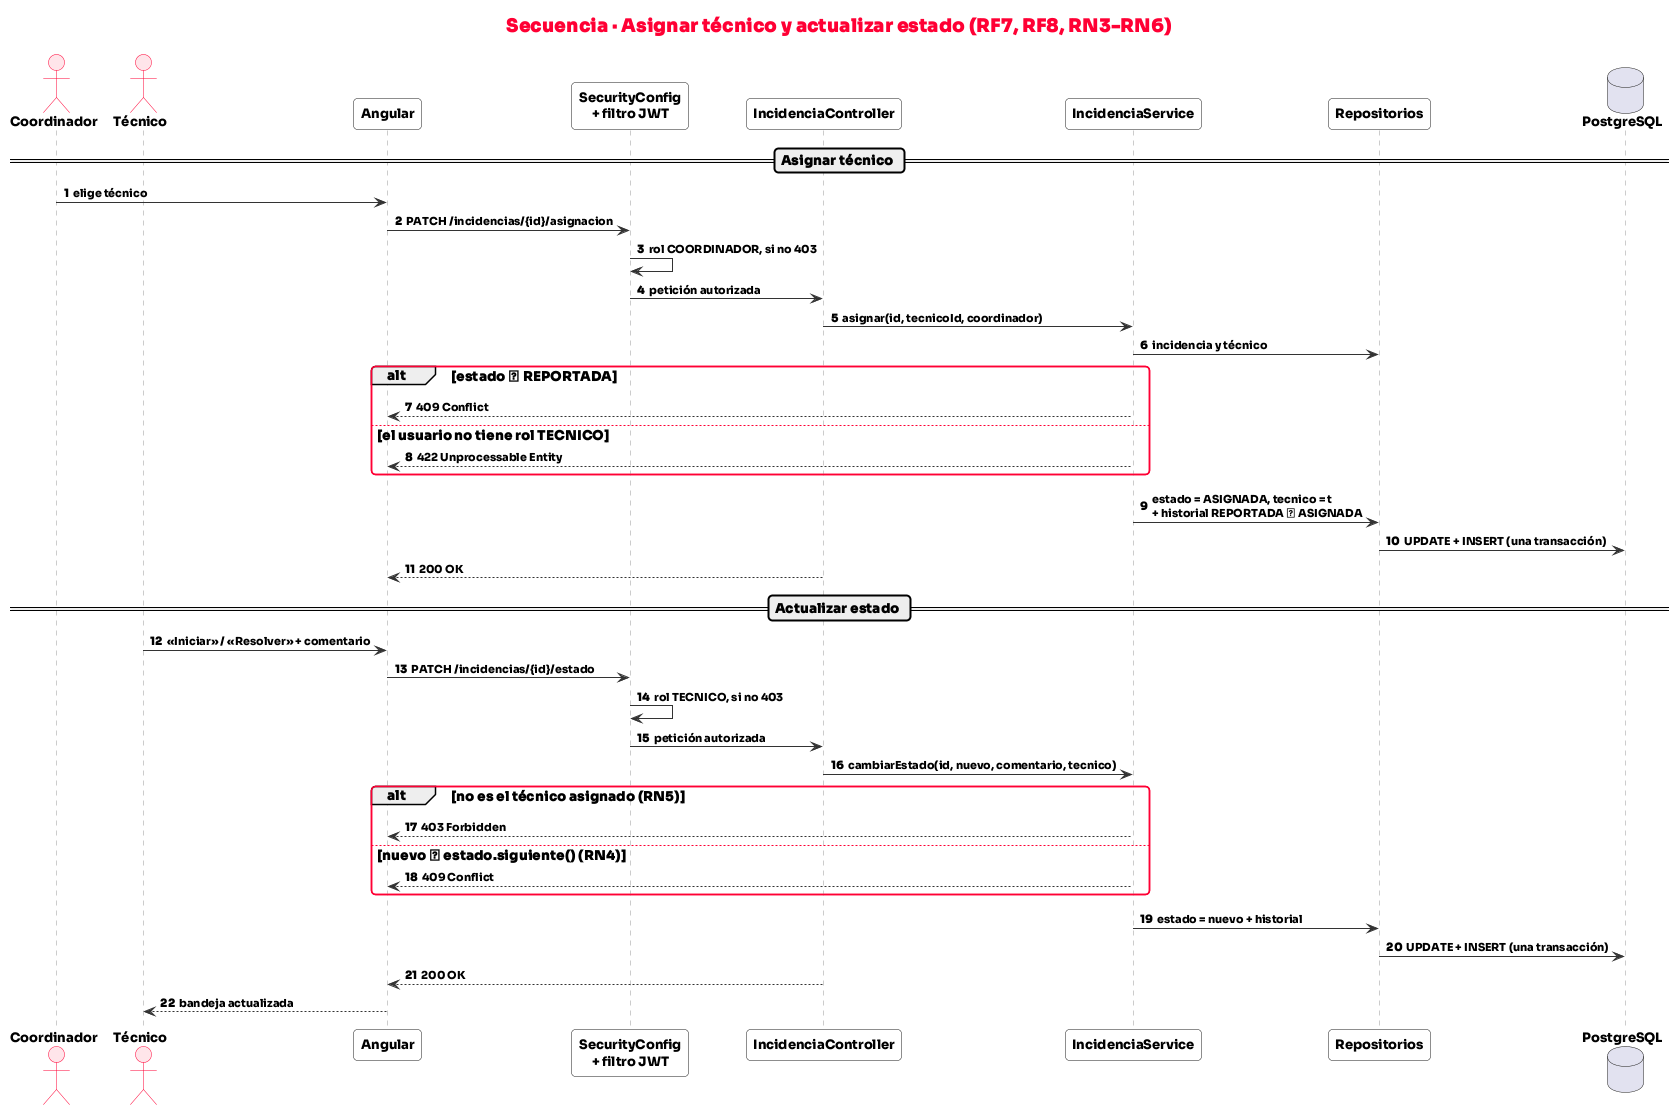
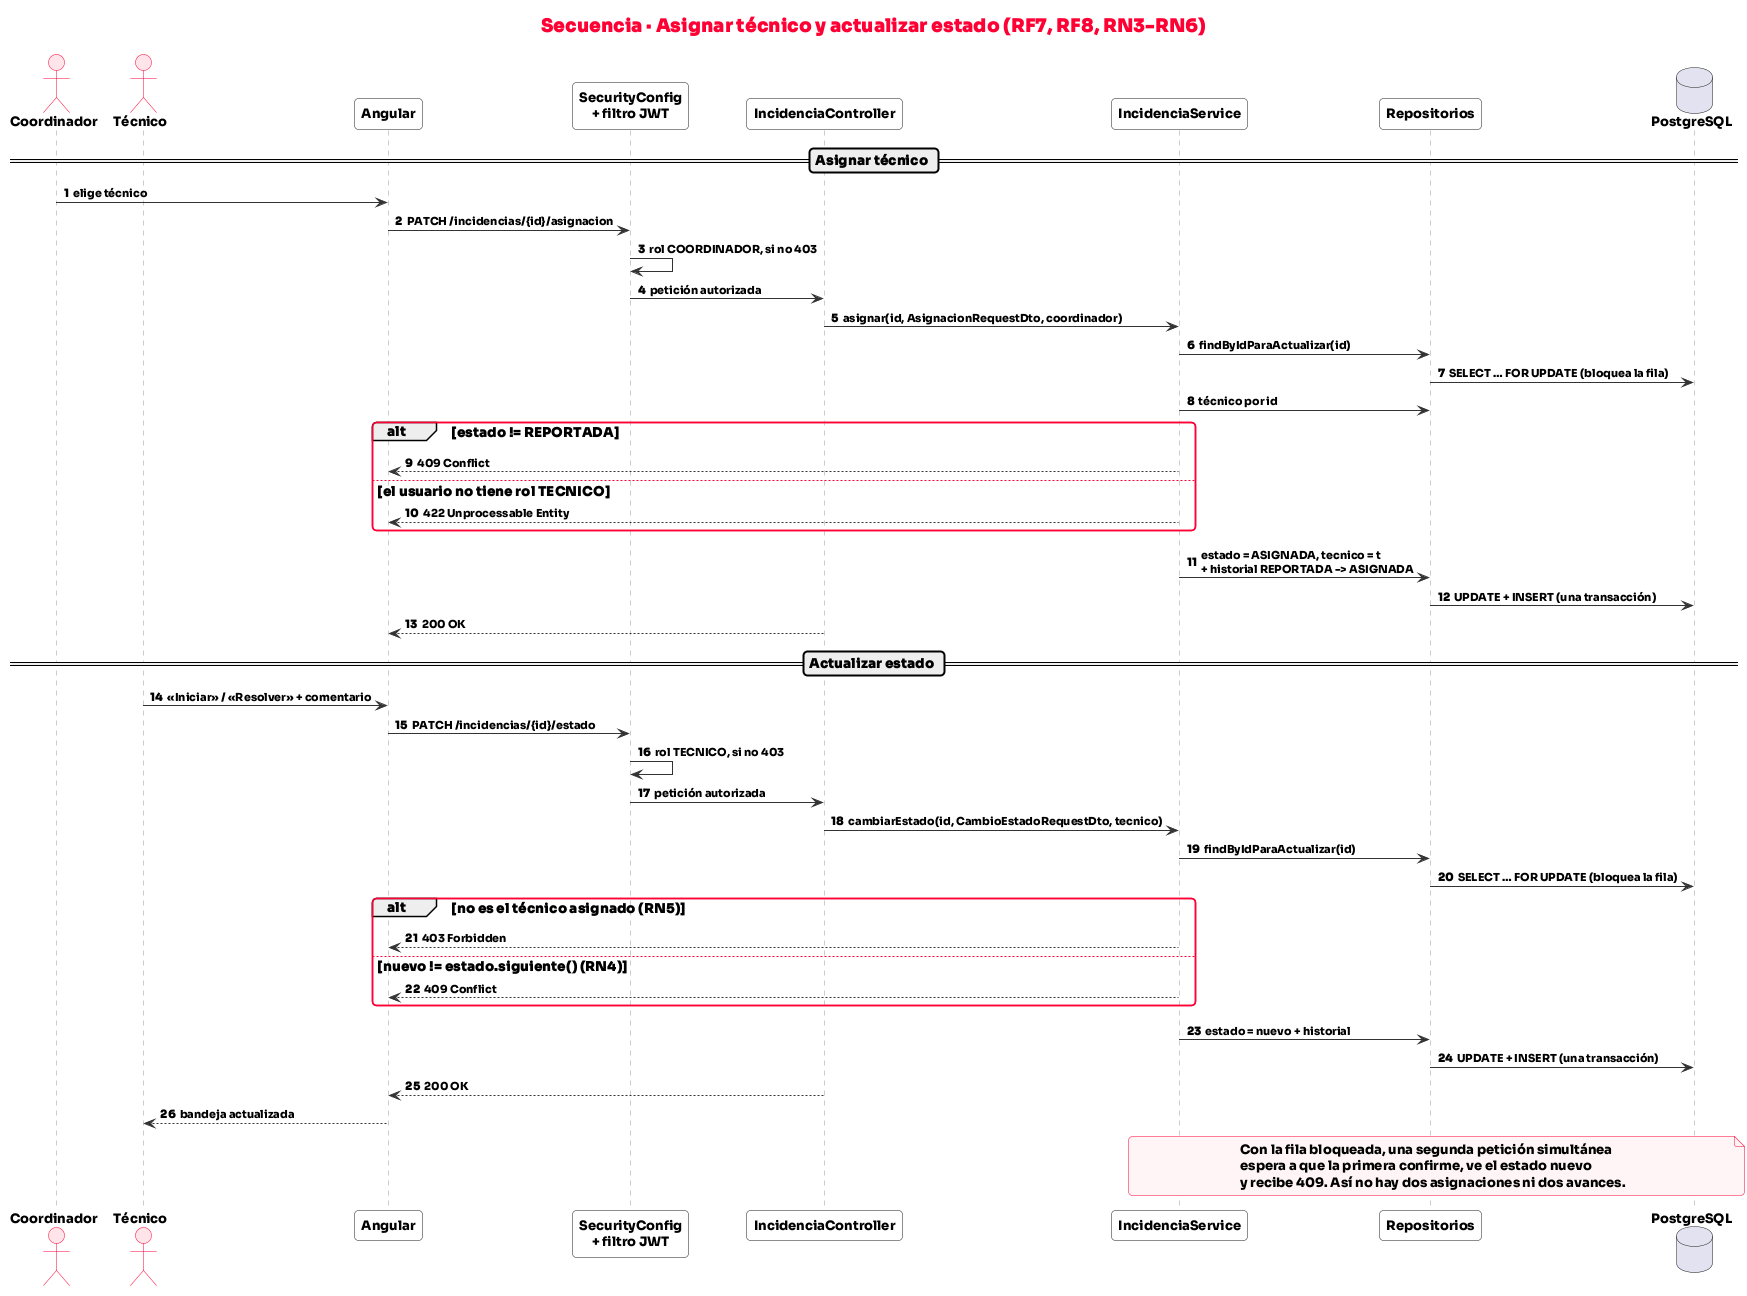
docs: secuencia de estado con bloqueo de fila y DTO; cambios 10 a 13 de la revisión; capturas localizan por id

diff --git a/docs/03-cambios.md b/docs/03-cambios.md
@@ -1,6 +1,6 @@
 # Ejercicio 3 · Diferencias entre el modelo y la implementación
 
-Al construir el prototipo aparecieron diferencias con los diagramas del Ejercicio 1. Algunas se resolvieron **actualizando el diagrama**, porque la implementación era la correcta. Otras son **decisiones de detalle** que el diagrama no tenía por qué mostrar y se dejan documentadas aquí. Ninguna cambia la arquitectura, el flujo obligatorio ni las reglas del caso.
+Al construir el prototipo aparecieron diferencias con los diagramas del Ejercicio 1. Algunas se resolvieron **actualizando el diagrama**, porque la implementación era la correcta. Otras son **decisiones de detalle** que el diagrama no tenía por qué mostrar y se dejan documentadas aquí. Ninguna cambia la arquitectura, el flujo obligatorio ni las reglas del caso. Las filas 10 a 13 salieron de una revisión independiente del código hecha después de la primera versión del prototipo; las cuatro se corrigieron y se volvieron a probar.
 
 | # | Diferencia | Dónde se ve | Justificación | Acción |
 |---|---|---|---|---|
@@ -13,7 +13,11 @@ Al construir el prototipo aparecieron diferencias con los diagramas del Ejercici
 | 7 | Un valor de enum desconocido (por ejemplo `"categoria": "XX"`) o un JSON mal formado responden 400, igual que un campo faltante. | `exception/ExceptionHandler.java` | Para quien consume la API, las dos son entradas inválidas; un 500 confundiría. | Solo se documenta. |
 | 8 | Las fechas se guardan y se devuelven en UTC con precisión de microsegundos, y el frontend las muestra en hora local de México. | `util/DatetimeUtil.java` | Sin este ajuste, la respuesta del POST traía la hora local con nanosegundos y la del GET la traía en UTC con microsegundos, así que la misma incidencia parecía tener dos fechas. | Solo se documenta. |
 | 9 | Los puertos son 8081 para el backend y 5433 para Postgres, en lugar de los habituales 8080 y 5432. | `application.yaml`, `compose.yaml` | En el equipo de desarrollo los puertos por defecto ya estaban ocupados por otros servicios. | Diagrama de despliegue (ya los usaba). |
+| 10 | `asignar()` y `cambiarEstado()` leen la incidencia con `SELECT … FOR UPDATE` (`IncidenciaRepository.findByIdParaActualizar`). | `repository/IncidenciaRepository.java`, `IncidenciaService.java` | La revisión independiente reprodujo dos asignaciones simultáneas que respondían 200 las dos, y dos avances simultáneos que duplicaban la transición en el historial. Las dos rompían RN3 y RN4. Con la fila bloqueada, la segunda petición espera, ve el estado nuevo y recibe 409. La prueba de integración `asignacionesSimultaneas` falla si se quita el bloqueo. | Secuencia «asignar y actualizar estado» actualizada; las llamadas también muestran ahora los DTO que reciben los métodos. |
+| 11 | La ruta interna `/error` no exige sesión, hay un manejador genérico para 500 y un parámetro obligatorio ausente responde 400. | `SecurityConfig.java`, `ExceptionHandler.java` | Antes, cualquier error que llegara al despacho de errores de Spring (por ejemplo `GET /usuarios` sin `rol`) volvía como 401, y el frontend cerraba la sesión por un error de entrada. | Solo se documenta. |
+| 12 | La descripción y los comentarios se recortan **antes** de validarse y no admiten el byte nulo; el frontend mide el mínimo igual. | DTO de entrada, `mis-incidencias.component.ts` | «Nueve espacios y una x» pasaba el mínimo de 10 caracteres y se guardaba como «x». El byte nulo hacía fallar a PostgreSQL con un error interno. | Solo se documenta. |
+| 13 | El frontend recarga la pestaña cuando otra pestaña inicia o cierra sesión. | `core/auth.service.ts` | Sin esto, una pestaña podía mostrar los datos de Ana y enviar el token de Bruno guardado por otra pestaña. | Solo se documenta. |
 
 ## Diagramas sin cambios
 
-Casos de uso, clases, estados y las dos secuencias corresponden a la implementación tal como se modelaron. Los nombres de clases, métodos, endpoints y códigos HTTP que aparecen en ellos existen en el código; la matriz final (`04-matriz-final.md`) da la línea exacta de cada uno.
+Casos de uso, clases, estados y la secuencia «registrar» corresponden a la implementación tal como se modelaron. Los nombres de clases, métodos, endpoints y códigos HTTP que aparecen en ellos existen en el código; la matriz final (`04-matriz-final.md`) da la línea exacta de cada uno.
